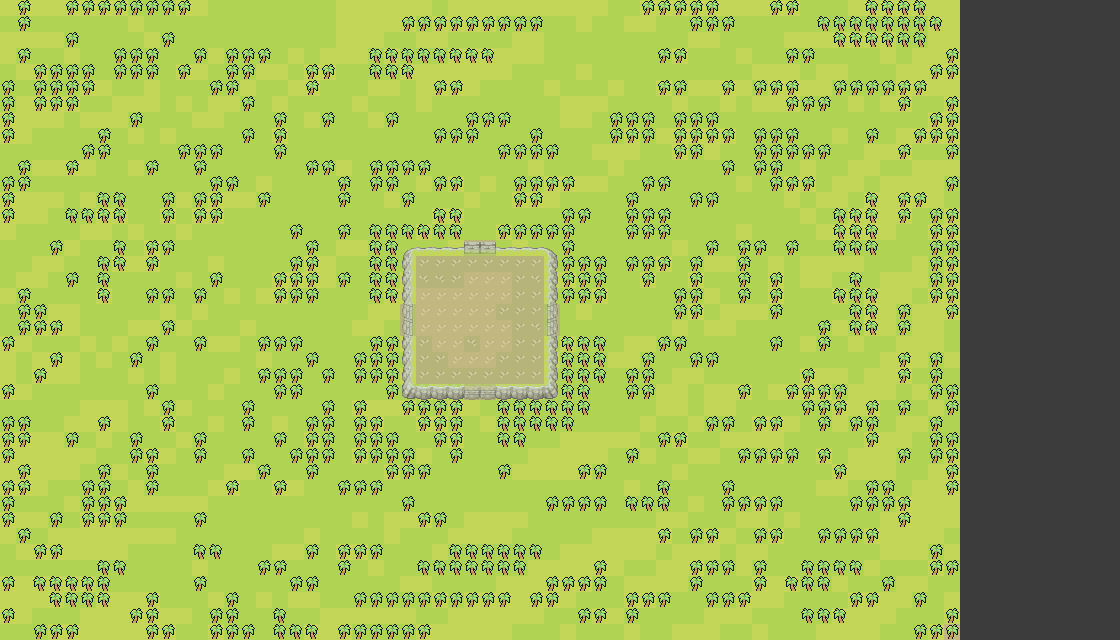
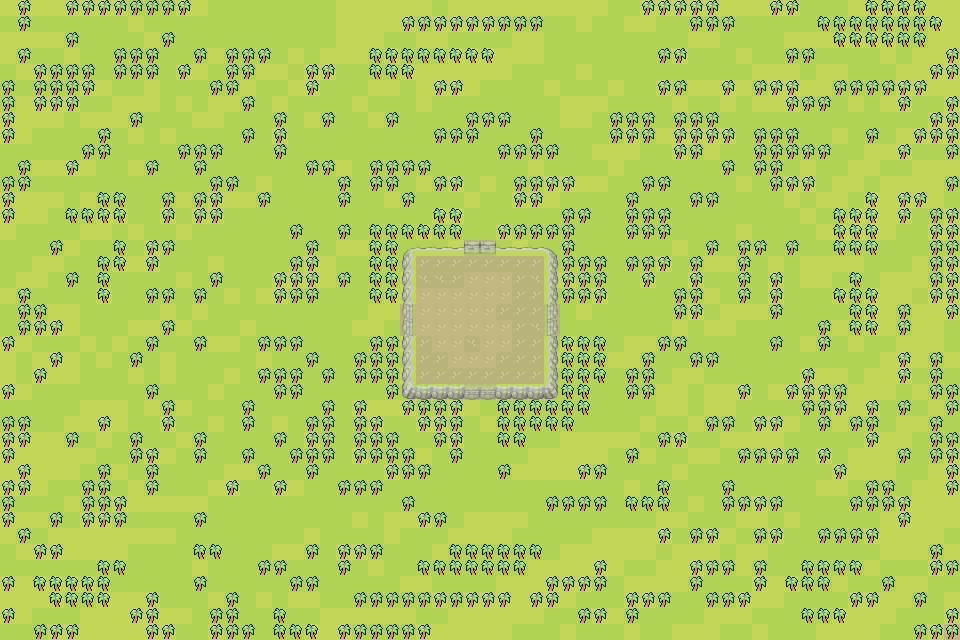
Change Color of Slime

diff --git a/main.py b/main.py
@@ -48,8 +48,10 @@ less_life = 100
 pygame.init()
 
 background_img = pygame.image.load('images/map.png')
-SlimeBlue_img = pygame.image.load('images/SlimeBlue.png')
-SlimeGreen_img = pygame.image.load('images/SlimeGreen.png')
+# SlimeBlue_img = pygame.image.load('images/SlimeBlue.png')
+SlimeBlue_img = pygame.image.load('images/(New)SlimeBlue.png')
+# SlimeGreen_img = pygame.image.load('images/SlimeGreen.png')
+SlimeGreen_img = pygame.image.load('images/(New)SlimeGreen.png')
 apple_img = pygame.image.load('images/apple.png')
 
 size = [60, 40]
@@ -355,6 +357,8 @@ while True:
         if event.type == pygame.QUIT:
             pygame.quit()
             sys.exit()
+
+    screen_image.fill((62,62,62))
     screen_image.blit(background_img, (0, 0))
 
     if reward_time <= 0 and len(apple_pos) < apple_max and len(apple_home)+len(apple_pos) < 20:
@@ -382,7 +386,7 @@ while True:
     life_pass()
 
     alive_image = pygame.font.Font(
-        "font/msjh.ttc", 24).render(f'目前數量:{len(slime_list)}', True, (173, 111, 80))
+        "font/msjh.ttc", 24).render(f'目前數量:{len(slime_list)}', True, (173, 111, 80) )
     screen_image.blit(alive_image, (975, 50))
     alive_image = pygame.font.Font(
         "font/msjh.ttc", 24).render(f'飢餓數量:{hungry_num}', True, (173, 111, 80))
